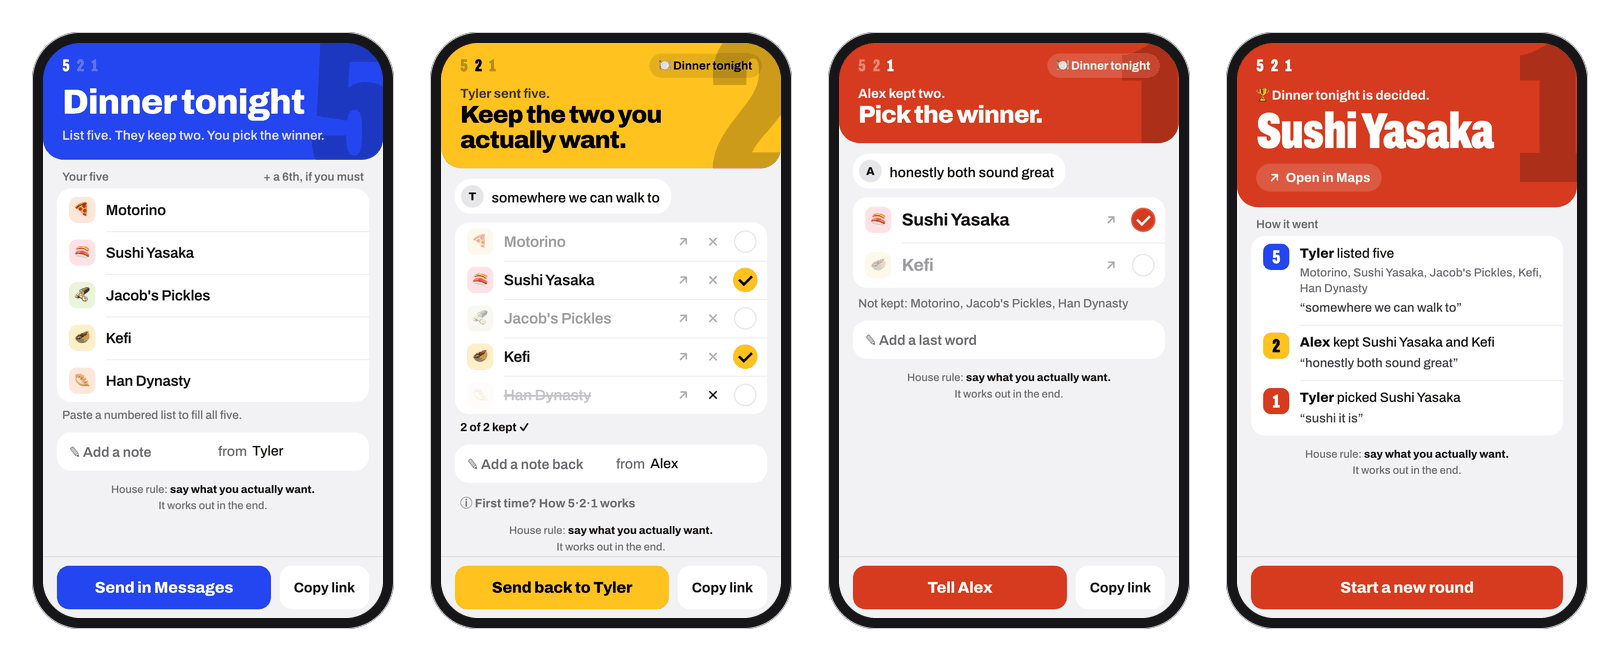
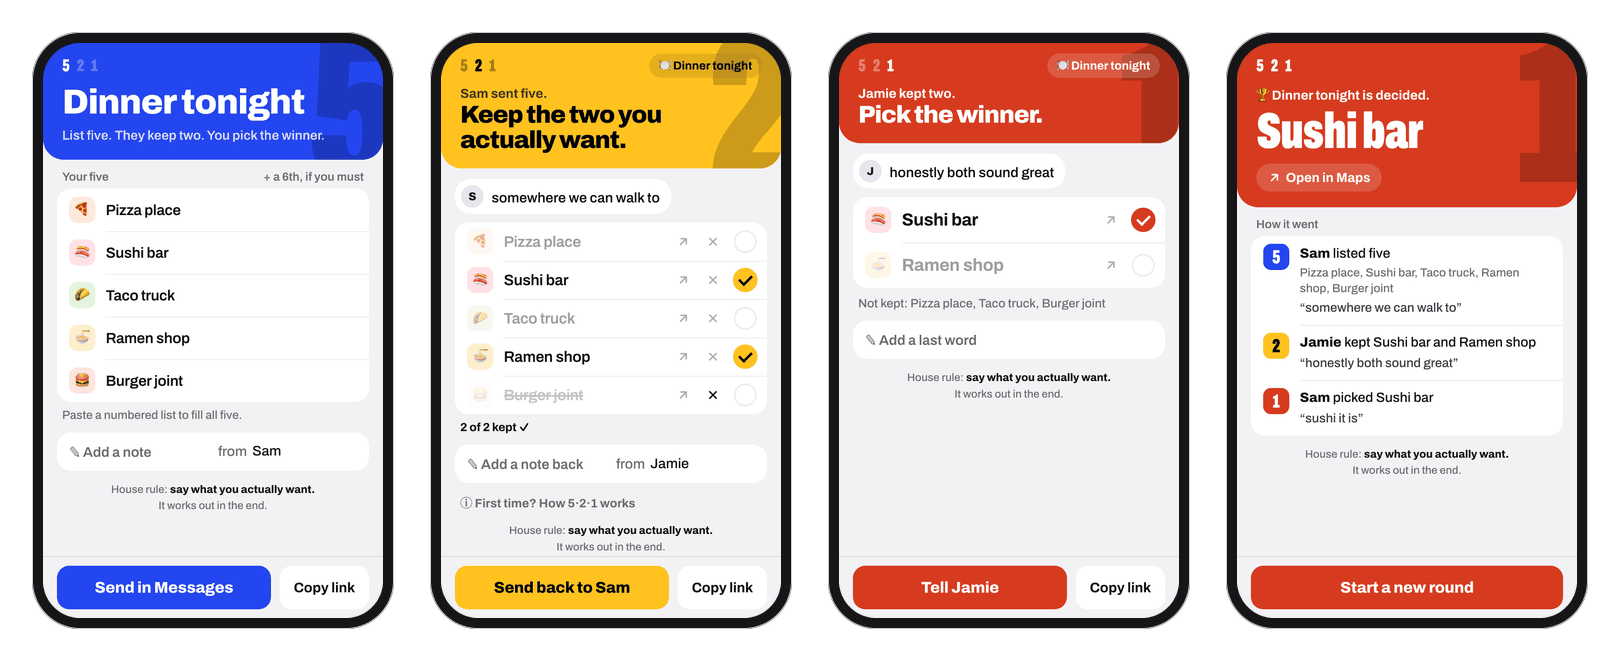
README: a generic demo round (no real names or places)
The art and examples now use a made-up round: Sam and Jamie choosing
between a pizza place, a sushi bar, a taco truck, a ramen shop, and a
burger joint. The sample thread and the "Try it" link encode the same
generic round, and the emoji line no longer mentions the local list.

diff --git a/README.md b/README.md
@@ -42,9 +42,9 @@ A round fits in about 200 characters, well under the length where iMessage start
 cutting links apart. So the text thread *is* the game board:
 
 ```
-You    https://tylerwhughes.com/521/#2FY2xCgIxEER_JWxjk8b2…              list 5
-Them   https://tylerwhughes.com/521/#2DY2xCgIxEER_JWxjk-aw…              keep 2
-You    🏆 Sushi Yasaka! https://tylerwhughes.com/521/#2DU49CwIxDP0r…     pick 1
+You    https://tylerwhughes.com/521/#2DY2xDgIxDEN_JcrchbUj4…               list 5
+Them   https://tylerwhughes.com/521/#2FY2xDsIwDER_xfKcpWLri…               keep 2
+You    🏆 Sushi bar! https://tylerwhughes.com/521/#2FY6xDsIwDER_xfK…       pick 1
 ```
 
 - **Nothing is stored anywhere.** Browsers never send the part after `#` to a server,
@@ -53,13 +53,13 @@ You    🏆 Sushi Yasaka! https://tylerwhughes.com/521/#2DU49CwIxDP0r…     pic
   **Send in Messages** opens Messages with it already filled in.
 - **Old links keep working.** Links from before compression still open.
 
-**Try it:** [this link](https://tylerwhughes.com/521/#2FY2xCgIxEER_JWxjk8b26itEEQRt5LBYw2pC4i5kc4Yg_rtrNTNvYOYDb5i2HhQmCGsDD83cnJipuiacnvEPi8HLKFTNC0wLHKVJTSyWz6vG5K6omNHiHoPcN-pOKeRCauRAj2SyQ3bzYNQ24OaBbVLlRT1SJdfJBes7lmy38P0B)
+**Try it:** [this link](https://tylerwhughes.com/521/#2DY2xDgIxDEN_JcrchbUj4gMQx4YYQhVdy7XpqU2pdIh_J5v9bNlf_KA_OVT0eEki3ECrpDUqOswGFyqmKvoHXtNxEOyZAhtaRo8JXtRM3ylU0DbCZuZGhQV6rLuZ82irbb5rEsWnQ7HJXgvPyI1hMgQSmJQ3u7V6tzgMxd8f)
 is a real round. You're the one keeping two.
 
 ## Small things
 
-- Every option gets an emoji, guessed by 122 rules (sushi 🍣, tacos 🌮, "Five Guys" 🍔)
-  and a hand-picked list of about 90 local spots. Tap it to choose your own.
+- Every option gets an emoji, guessed by 122 rules (sushi 🍣, tacos 🌮, "Five Guys" 🍔).
+  Tap it to choose your own.
 - Paste a numbered list into any row and it fills all five.
 - Tap ✕ to cross an option out while you think. That stays on your phone.
 - Each handoff can carry a short note: "somewhere we can walk to".
